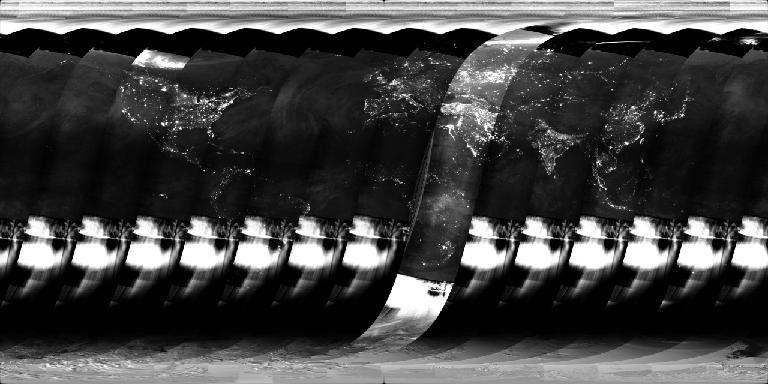
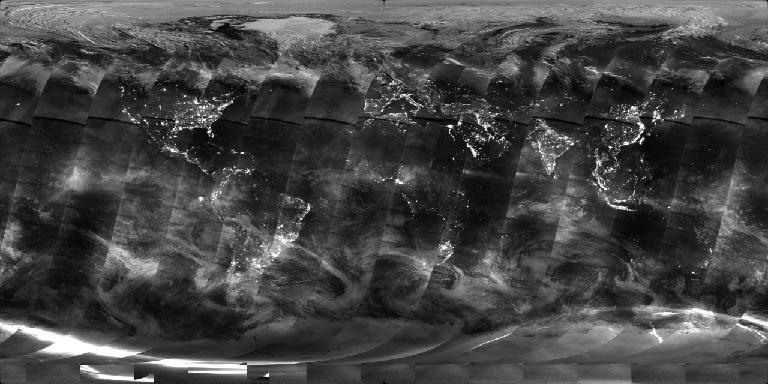
Added notice to ENCC

diff --git a/config/default/common/config/metadata/layers/viirs/EarthAtNight.md b/config/default/common/config/metadata/layers/viirs/EarthAtNight.md
@@ -8,6 +8,8 @@ References: [NASA Earth Observatory: Night Light Maps Open Up New Applications](
 ### VIIRS Nighttime Imagery (Day/Night Band, Enhanced Near Constant Contrast)
 Temporal coverage: 3 December 2016 - present
 
+**29 June 2020 Notice**: High latitude artifacts have been identified and fixed for 26 June 2020 onward. It is expected that the imagery will be reprocessed back to the beginning of the mission. [Read more about the issue](https://landweb.modaps.eosdis.nasa.gov/cgi-bin/NPP_QA/displayCase.cgi?esdt=NPP_VDNE&caseNum=PM_NPP_VDNE_20178&caseLocation=cases_data&action=small).
+
 The VIIRS Nighttime Imagery (Day/Night Band, Enhanced Near Constant Contrast) layer shows the Earth’s surface and atmosphere using a sensor designed to capture low-light emission sources, under varying illumination conditions. It is displayed as a grey-scale image. Sources of illumination include both natural and anthropogenic sources of light emissions. Lunar reflection can be used to highlight the location and features of clouds and other terrestrial features such as sea ice and snow cover when there is partial to full moon conditions. When there is no moonlight, natural and anthropogenic night time light emissions are highlighted such as city lights, lightning, auroras, fires, gas flares, and fishing fleets. This layer is useful for showing patterns of human activity and energy behaviors such as cities and highways, the holiday periods, the tracking of shipping and fishing fleets at night and, the burning of waste natural gas (gas flares) from on and off shore oil/gas production sites.
 
 The VIIRS Nighttime Imagery (Day/Night Band, Enhanced Near Constant Contrast) layer is available from the Visible Infrared Imaging Radiometer Suite (VIIRS) on the joint NASA/NOAA Suomi National Polar orbiting Partnership (Suomi NPP) satellite. The sensor resolution is 750 m at nadir, imagery resolution is 500 m, and the temporal resolution is daily.

diff --git a/config/default/common/config/metadata/layers/viirs/VIIRS_SNPP_DayNightBand_ENCC.md b/config/default/common/config/metadata/layers/viirs/VIIRS_SNPP_DayNightBand_ENCC.md
@@ -1,3 +1,5 @@
+**29 June 2020 Notice**: High latitude artifacts have been identified and fixed for 26 June 2020 onward. It is expected that the imagery will be reprocessed back to the beginning of the mission. [Read more about the issue](https://landweb.modaps.eosdis.nasa.gov/cgi-bin/NPP_QA/displayCase.cgi?esdt=NPP_VDNE&caseNum=PM_NPP_VDNE_20178&caseLocation=cases_data&action=small).
+
 The VIIRS Nighttime Imagery (Day/Night Band, Enhanced Near Constant Contrast) layer shows the Earth’s surface and atmosphere using a sensor designed to capture low-light emission sources, under varying illumination conditions. It is displayed as a grey-scale image. Sources of illumination include both natural and anthropogenic sources of light emissions. Lunar reflection can be used to highlight the location and features of clouds and other terrestrial features such as sea ice and snow cover when there is partial to full moon conditions. When there is no moonlight, natural and anthropogenic night time light emissions are highlighted such as city lights, lightning, auroras, fires, gas flares, and fishing fleets. This layer is useful for showing patterns of human activity and energy behaviors such as cities and highways, the holiday periods, the tracking of shipping and fishing fleets at night and, the burning of waste natural gas (gas flares) from on and offshore oil/gas production sites.
 
 The VIIRS Nighttime Imagery (Day/Night Band, Enhanced Near Constant Contrast) layer is available from the Visible Infrared Imaging Radiometer Suite (VIIRS) on the joint NASA/NOAA Suomi National Polar orbiting Partnership (Suomi NPP) satellite. The sensor resolution is 750 m at nadir, imagery resolution is 500 m, and the temporal resolution is daily.
